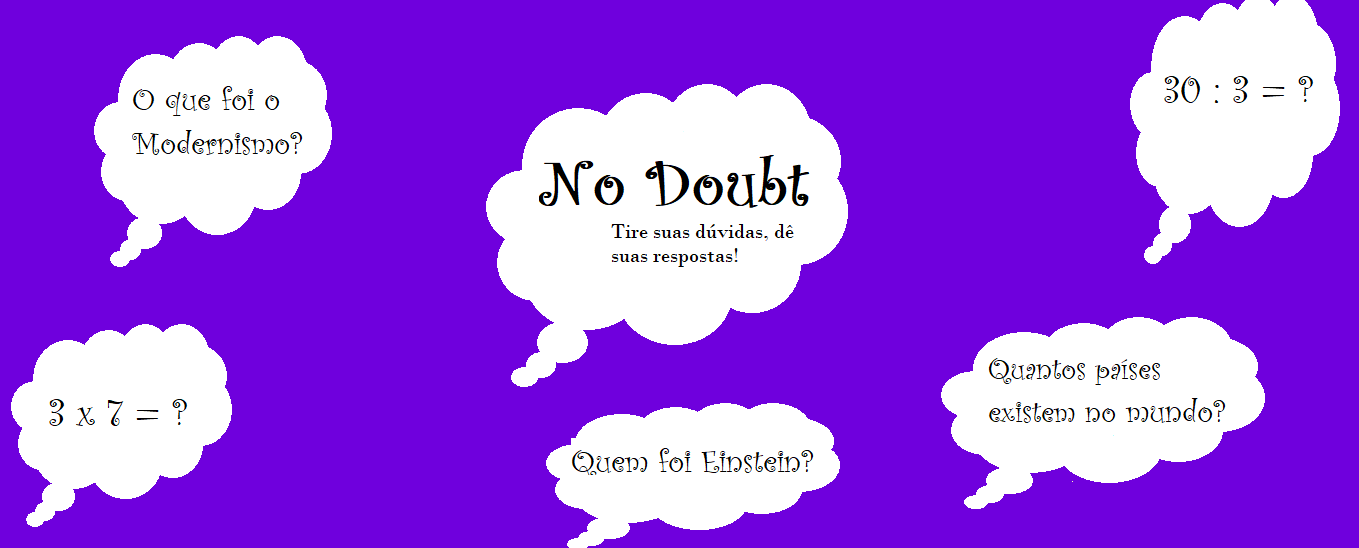
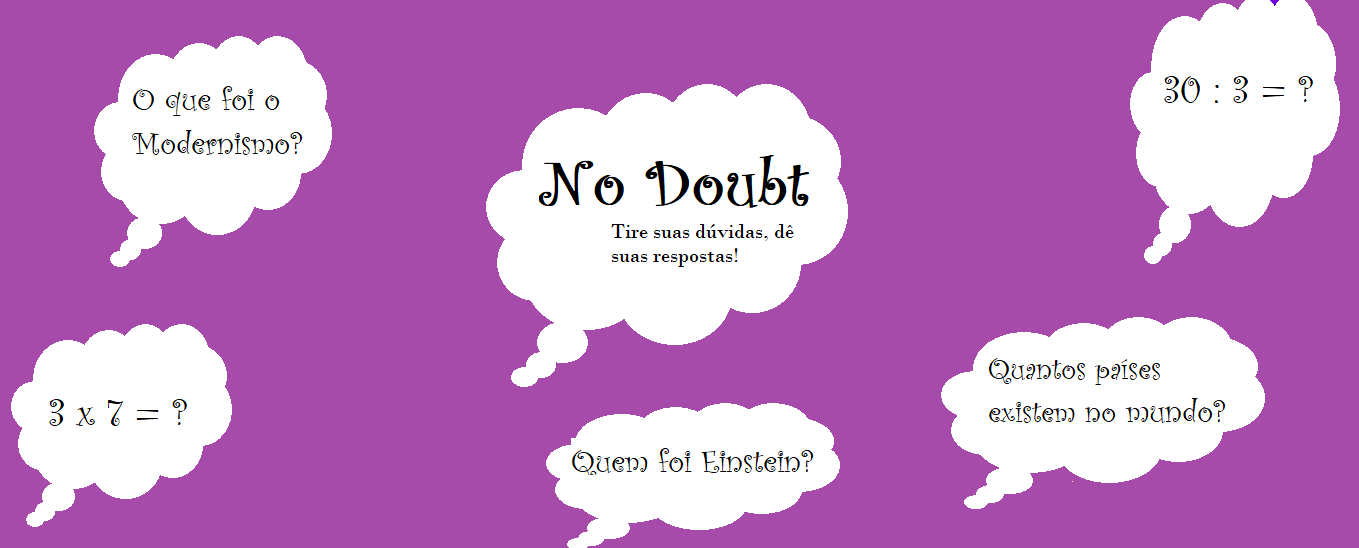
att

diff --git a/src/detalhes.css b/src/detalhes.css
@@ -191,3 +191,6 @@ button {
     font-size: 24px;
 }
 
+#index {
+    background-color: rgb(111, 0, );
+}

diff --git a/src/index.php b/src/index.php
@@ -13,7 +13,7 @@
 
 </head>
 
-<body style="backgroud-color:rgb(109, 11, 189)>
+<body style="backgroud-color:rgb(111, 0, 221)>
 
 <link rel="stylesheet" href="https://maxcdn.bootstrapcdn.com/bootstrap/3.3.7/css/bootstrap.min.css">    
 
